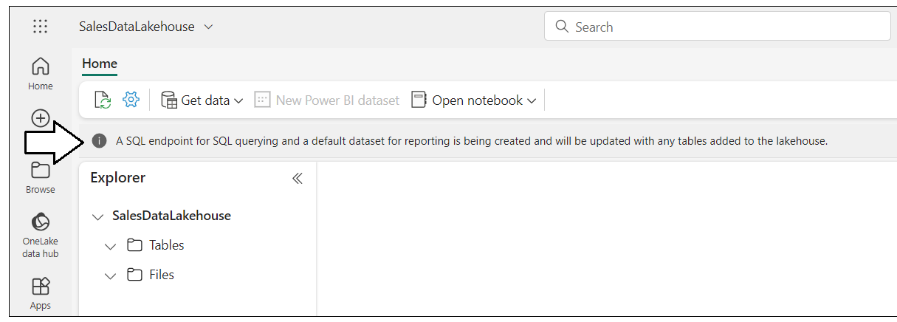
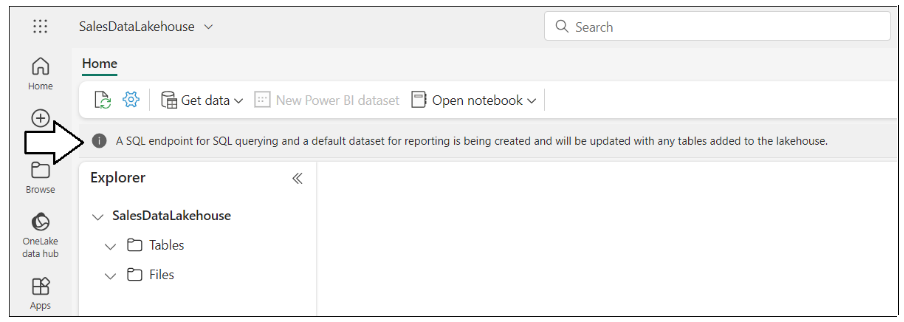
Updates

diff --git a/README.md b/README.md
@@ -62,7 +62,7 @@ Lakehouse and click **Create**.
 Once you have created the Lakehouse, you will notice a message
 indicating a SQL Endpoint is being created.
 
-<img src="./images/media/image7.png" style="width:60%"  />
+<img src="./images/media/image7.png" style="width:90%"  />
 
 Navigate back to the main page for the **DirectLakeDemo** workspace. In
 the list of workspace items, you should see a new item for the new **SQL
